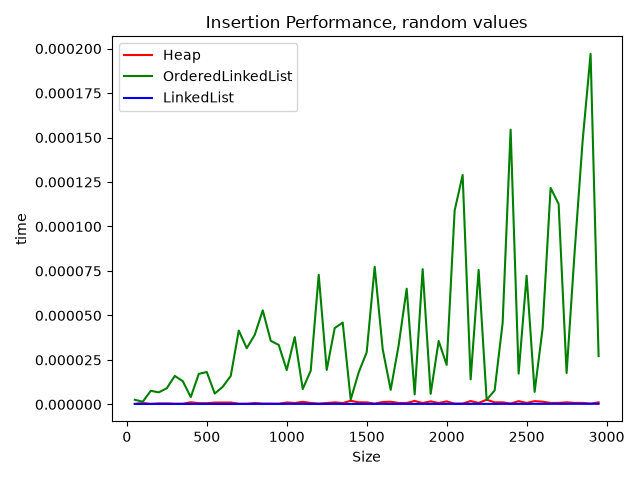
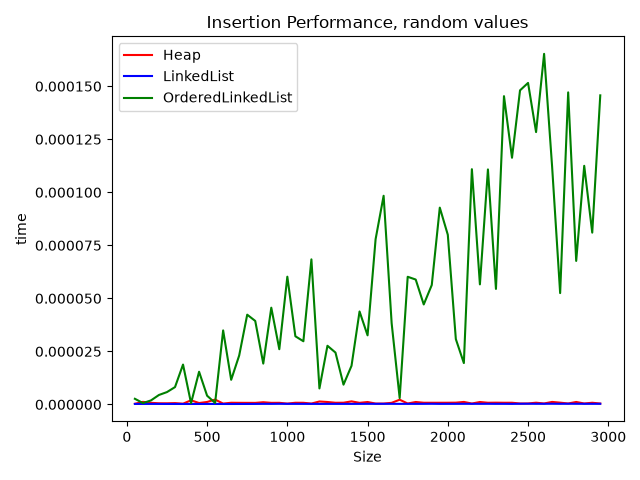
refactored testing code for insertion to require less runs

diff --git a/PicchioniEs1LabAlg.py b/PicchioniEs1LabAlg.py
@@ -3,6 +3,8 @@ from time import perf_counter as timer
 import matplotlib.pyplot as plt
 import random
 
+from numpy import test
+
 
 class Heap:
     def __init__(self, arr=None):
@@ -453,9 +455,17 @@ def insert_test(
             time,
             number_of_repeats,
         )
-
-    if test_name is not None:
-        test_type_string = test_name
+        if test_name is not None and i == types_to_test[1]:
+            plt.title(
+                "Insertion Performance, " + test_type_string + test_name + " values"
+            )
+            plt.xlabel("Size")
+            plt.ylabel("time")
+            plt.legend(loc="upper left")
+            plt.tight_layout()
+            plt.savefig(
+                "insertion_performance_" + test_type_string + test_name + ".png"
+            )
 
     plt.title("Insertion Performance, " + test_type_string + " values")
     plt.xlabel("Size")
@@ -537,44 +547,24 @@ interval_end = 30000
 number_of_repeats = 5
 inputs = random.choices(range(interval_end), k=number_of_elements)
 
-# print("# Testing Insertion cases")
-# types_to_test = range(3)
-# for i in range(3):
-#     insert_test(
-#         i,
-#         types_to_test,
-#         number_of_elements,
-#         number_of_operation,
-#         interval_end,
-#         number_of_repeats,
-#         inputs,
-#     )
-#
-# print("# Testing Insertion of random values, only Heap and LinkedList")
-# types_to_test = [0, 2]
-# insert_test(
-#     0,  # test for random values
-#     types_to_test,
-#     number_of_elements,
-#     number_of_operation,
-#     interval_end,
-#     number_of_repeats,
-#     inputs,
-#     "random_no_ord",
-# )
-#
-# print("# Testing Insertion of ascending values, only Heap and LinkedList")
-# types_to_test = [0, 2]
-# insert_test(
-#     1,
-#     types_to_test,
-#     number_of_elements,
-#     number_of_operation,
-#     interval_end,
-#     number_of_repeats,
-#     inputs,
-#     "acending_no_ord",
-# )
+print("# Testing Insertion cases")
+types_to_test = [0, 2, 1]
+for i in range(3):
+    test_name = None
+    if i != 2:
+        test_name = "no_linked_" + str(i)
+
+    insert_test(
+        i,
+        types_to_test,
+        number_of_elements,
+        number_of_operation,
+        interval_end,
+        number_of_repeats,
+        inputs,
+        test_name,
+    )
+
 
 print("# Testing Remove_Max")
 for i in range(3):
@@ -584,6 +574,7 @@ for i in range(3):
         number_of_repeats,
         inputs,
     )
+
     if i == 1:  # case without linked list
         plt.title("Remove_Max Performance")
         plt.xlabel("Size")
@@ -592,6 +583,7 @@ for i in range(3):
         plt.tight_layout()
         plt.savefig("remove_max_performance_no_linked.png")
 
+# saving the graph with all three data structures
 plt.title("Remove_Max Performance")
 plt.xlabel("Size")
 plt.ylabel("time")
@@ -599,24 +591,6 @@ plt.legend(loc="upper left")
 plt.tight_layout()
 plt.savefig("remove_max_performance.png")
 plt.clf()
-
-# FIXME I could just plot the graph with the data I already have when I run it the first time
-# print("# Testing Remove_Max, only Heap and OrderedLinkedList")
-# for i in range(2):
-#     remove_max_test(
-#         i,
-#         number_of_operation,
-#         number_of_repeats,
-#         inputs,
-#     )
-#
-# plt.title("Remove_Max Performance")
-# plt.xlabel("Size")
-# plt.ylabel("time")
-# plt.legend(loc="upper left")
-# plt.tight_layout()
-# plt.savefig("remove_max_performance_no_linked.png")
-# plt.clf()
 
 print("# Testing Increase_key")
 for i in range(3):
